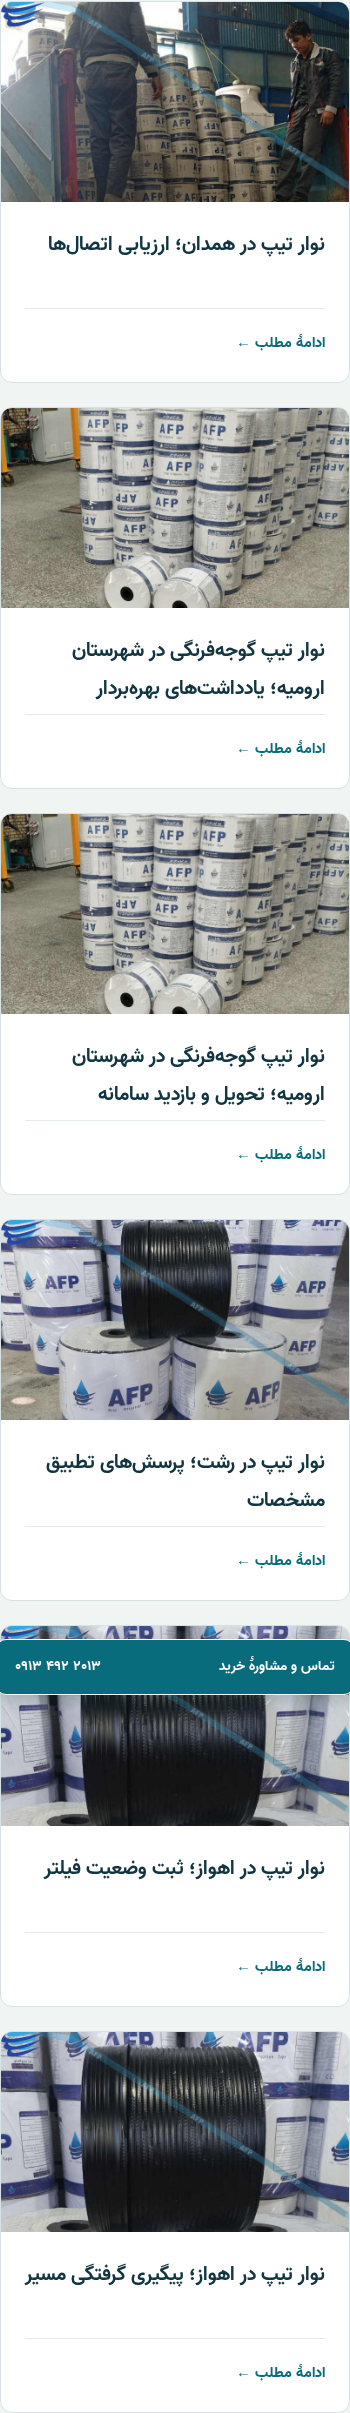
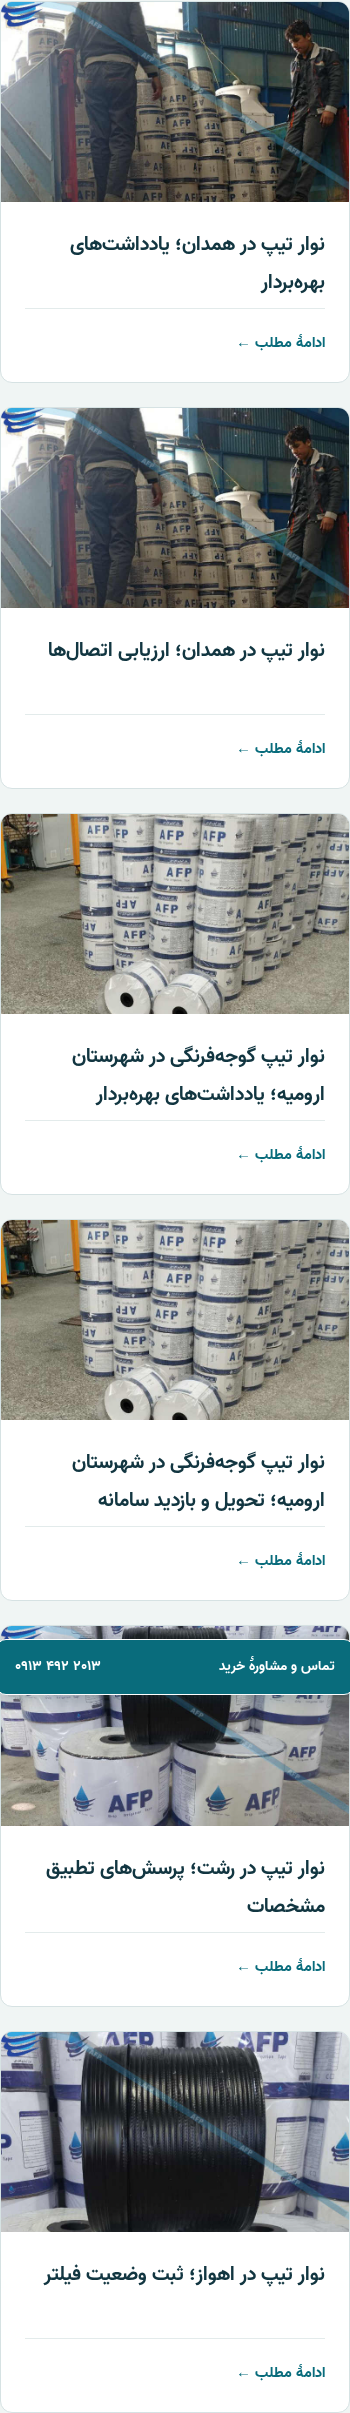
Checkpoint verified Blogsky native outcome [skip ci]

diff --git a/artifacts/blogsky-backlink-queue/home-card-images/before.html b/artifacts/blogsky-backlink-queue/home-card-images/before.html
@@ -27,12 +27,12 @@ body:has(#afp-home) .sidebar>.menu:has(>.head>a[href="/posts"]) a:focus-visible{
 @media(max-width:760px){body:has(#afp-home) .sidebar>.menu:has(>.head>a[href="/posts"])>ul{width:calc(100% - 40px)}#afp-home #guides{padding-top:40px}}
 @media(max-width:650px){body:has(#afp-home) .sidebar>.menu:has(>.head>a[href="/posts"])>ul{grid-template-columns:minmax(0,1fr)}#afp-home .afp-journal-heading{align-items:flex-start;flex-direction:column;gap:12px}}
 /*]]>*//* AFP_LIVE_CARD_IMAGES_START */
+body:has(#afp-home) .sidebar>.menu:has(>.head>a[href="/posts"])>ul>li>a[href="/1405/08/05/post-17/navar-tip-hamedan-evaluation-connections"]::before{background-image:url("https://navar-abyari.ir/wp-content/uploads/%D9%86%D9%88%D8%A7%D8%B1-%D8%A2%D8%A8%DB%8C%D8%A7%D8%B1%DB%8C-%D9%87%D9%85%D8%AF%D8%A7%D9%86-1.jpg");background-size:cover;background-position:center}
 body:has(#afp-home) .sidebar>.menu:has(>.head>a[href="/posts"])>ul>li>a[href="/1405/08/05/post-16/tape-tomato-urmia-operator-notes"]::before{background-image:url("https://navar-abyari.ir/wp-content/uploads/%D9%86%D9%88%D8%A7%D8%B1-%D8%AA%DB%8C%D9%BE-%D8%B4%D9%87%D8%B1%DA%A9%D8%B1%D8%AF-%D8%AE%D8%B1%DB%8C%D8%AF.jpg");background-size:cover;background-position:center}
 body:has(#afp-home) .sidebar>.menu:has(>.head>a[href="/posts"])>ul>li>a[href="/1405/08/05/post-15/nabar-tip-gooje-urmiye-bazdid-system"]::before{background-image:url("https://navar-abyari.ir/wp-content/uploads/%D9%86%D9%88%D8%A7%D8%B1-%D8%AA%DB%8C%D9%BE-%D8%B4%D9%87%D8%B1%DA%A9%D8%B1%D8%AF-%D8%AE%D8%B1%DB%8C%D8%AF.jpg");background-size:cover;background-position:center}
 body:has(#afp-home) .sidebar>.menu:has(>.head>a[href="/posts"])>ul>li>a[href="/1405/08/05/post-14/navar-tip-rasht-tatbigh-moshakhasat"]::before{background-image:url("https://navar-abyari.ir/wp-content/uploads/%D9%86%D9%88%D8%A7%D8%B1-%D8%A2%D8%A8%DB%8C%D8%A7%D8%B1%DB%8C.jpg");background-size:cover;background-position:center}
 body:has(#afp-home) .sidebar>.menu:has(>.head>a[href="/posts"])>ul>li>a[href="/1405/08/05/post-13/navar-tip-4648e48de8ba739b2058"]::before{background-image:url("https://navar-abyari.ir/wp-content/uploads/%D9%86%D9%88%D8%A7%D8%B1-%D8%AA%DB%8C%D9%BE-%D8%B2%D9%86%D8%AC%D8%A7%D9%86.jpg");background-size:cover;background-position:center}
 body:has(#afp-home) .sidebar>.menu:has(>.head>a[href="/posts"])>ul>li>a[href="/1405/08/01/post-12/nivar-tip-ahvaz-getnegi-gereftegi-marz"]::before{background-image:url("https://navar-abyari.ir/wp-content/uploads/%D9%86%D9%88%D8%A7%D8%B1-%D8%AA%DB%8C%D9%BE-%D8%B2%D9%86%D8%AC%D8%A7%D9%86.jpg");background-size:cover;background-position:center}
-body:has(#afp-home) .sidebar>.menu:has(>.head>a[href="/posts"])>ul>li>a[href="/1405/08/01/post-11/navar-tip-dar-shiraz-arzabi-ettelatha"]::before{background-image:url("https://navar-abyari.ir/wp-content/uploads/%D8%A8%D9%87%D8%AA%D8%B1%DB%8C%D9%86-%D9%86%D9%88%D8%A7%D8%B1-%D8%AA%DB%8C%D9%BE-%D8%B4%DB%8C%D8%B1%D8%A7%D8%B2.jpg");background-size:cover;background-position:center}
 /* AFP_LIVE_CARD_IMAGES_END */</style><div id="afp-home" lang="fa" dir="rtl">
 <div class="top"><div class="wrap"><span class="top-note">راهنمای کاربردی AFP · آبیاری و انتقال آب</span><a href="tel:+989134922013">مشاورهٔ انتخاب تجهیزات: ۰۹۱۳۴۹۲۲۰۱۳</a></div></div>
 <header><div class="wrap brandbar"><a class="brand" href="/"><img src="https://navar-abyari.ir/wp-content/uploads/نوار-تیپ-afp-drip-tape.png" alt="لوگوی AFP" width="52" height="52" /><span><strong>آبگستر فرا پارسیان</strong><small>انتخاب آگاهانه، آبیاری بهتر</small></span></a><a class="btn alt" href="https://navar-abyari.ir/shop/">فروشگاه AFP ←</a></div><div class="navline"><nav class="wrap" aria-label="فهرست اصلی"><a href="#products">تجهیزات آبیاری</a><a href="#guides">راهنماها و یادداشتها</a><a href="#faq">پرسشهای متداول</a><a href="#contact">تماس و مشاوره</a></nav></div></header>

diff --git a/artifacts/blogsky-backlink-queue/home-card-images/candidate.html b/artifacts/blogsky-backlink-queue/home-card-images/candidate.html
@@ -27,12 +27,12 @@ body:has(#afp-home) .sidebar>.menu:has(>.head>a[href="/posts"]) a:focus-visible{
 @media(max-width:760px){body:has(#afp-home) .sidebar>.menu:has(>.head>a[href="/posts"])>ul{width:calc(100% - 40px)}#afp-home #guides{padding-top:40px}}
 @media(max-width:650px){body:has(#afp-home) .sidebar>.menu:has(>.head>a[href="/posts"])>ul{grid-template-columns:minmax(0,1fr)}#afp-home .afp-journal-heading{align-items:flex-start;flex-direction:column;gap:12px}}
 /*]]>*//* AFP_LIVE_CARD_IMAGES_START */
+body:has(#afp-home) .sidebar>.menu:has(>.head>a[href="/posts"])>ul>li>a[href="/1405/08/05/post-18/navar-tip-hamadan-yaddasht-hbarebardar"]::before{background-image:url("https://navar-abyari.ir/wp-content/uploads/%D9%86%D9%88%D8%A7%D8%B1-%D8%A2%D8%A8%DB%8C%D8%A7%D8%B1%DB%8C-%D9%87%D9%85%D8%AF%D8%A7%D9%86-1.jpg");background-size:cover;background-position:center}
 body:has(#afp-home) .sidebar>.menu:has(>.head>a[href="/posts"])>ul>li>a[href="/1405/08/05/post-17/navar-tip-hamedan-evaluation-connections"]::before{background-image:url("https://navar-abyari.ir/wp-content/uploads/%D9%86%D9%88%D8%A7%D8%B1-%D8%A2%D8%A8%DB%8C%D8%A7%D8%B1%DB%8C-%D9%87%D9%85%D8%AF%D8%A7%D9%86-1.jpg");background-size:cover;background-position:center}
 body:has(#afp-home) .sidebar>.menu:has(>.head>a[href="/posts"])>ul>li>a[href="/1405/08/05/post-16/tape-tomato-urmia-operator-notes"]::before{background-image:url("https://navar-abyari.ir/wp-content/uploads/%D9%86%D9%88%D8%A7%D8%B1-%D8%AA%DB%8C%D9%BE-%D8%B4%D9%87%D8%B1%DA%A9%D8%B1%D8%AF-%D8%AE%D8%B1%DB%8C%D8%AF.jpg");background-size:cover;background-position:center}
 body:has(#afp-home) .sidebar>.menu:has(>.head>a[href="/posts"])>ul>li>a[href="/1405/08/05/post-15/nabar-tip-gooje-urmiye-bazdid-system"]::before{background-image:url("https://navar-abyari.ir/wp-content/uploads/%D9%86%D9%88%D8%A7%D8%B1-%D8%AA%DB%8C%D9%BE-%D8%B4%D9%87%D8%B1%DA%A9%D8%B1%D8%AF-%D8%AE%D8%B1%DB%8C%D8%AF.jpg");background-size:cover;background-position:center}
 body:has(#afp-home) .sidebar>.menu:has(>.head>a[href="/posts"])>ul>li>a[href="/1405/08/05/post-14/navar-tip-rasht-tatbigh-moshakhasat"]::before{background-image:url("https://navar-abyari.ir/wp-content/uploads/%D9%86%D9%88%D8%A7%D8%B1-%D8%A2%D8%A8%DB%8C%D8%A7%D8%B1%DB%8C.jpg");background-size:cover;background-position:center}
 body:has(#afp-home) .sidebar>.menu:has(>.head>a[href="/posts"])>ul>li>a[href="/1405/08/05/post-13/navar-tip-4648e48de8ba739b2058"]::before{background-image:url("https://navar-abyari.ir/wp-content/uploads/%D9%86%D9%88%D8%A7%D8%B1-%D8%AA%DB%8C%D9%BE-%D8%B2%D9%86%D8%AC%D8%A7%D9%86.jpg");background-size:cover;background-position:center}
-body:has(#afp-home) .sidebar>.menu:has(>.head>a[href="/posts"])>ul>li>a[href="/1405/08/01/post-12/nivar-tip-ahvaz-getnegi-gereftegi-marz"]::before{background-image:url("https://navar-abyari.ir/wp-content/uploads/%D9%86%D9%88%D8%A7%D8%B1-%D8%AA%DB%8C%D9%BE-%D8%B2%D9%86%D8%AC%D8%A7%D9%86.jpg");background-size:cover;background-position:center}
 /* AFP_LIVE_CARD_IMAGES_END */</style><div id="afp-home" lang="fa" dir="rtl">
 <div class="top"><div class="wrap"><span class="top-note">راهنمای کاربردی AFP · آبیاری و انتقال آب</span><a href="tel:+989134922013">مشاورهٔ انتخاب تجهیزات: ۰۹۱۳۴۹۲۲۰۱۳</a></div></div>
 <header><div class="wrap brandbar"><a class="brand" href="/"><img src="https://navar-abyari.ir/wp-content/uploads/نوار-تیپ-afp-drip-tape.png" alt="لوگوی AFP" width="52" height="52" /><span><strong>آبگستر فرا پارسیان</strong><small>انتخاب آگاهانه، آبیاری بهتر</small></span></a><a class="btn alt" href="https://navar-abyari.ir/shop/">فروشگاه AFP ←</a></div><div class="navline"><nav class="wrap" aria-label="فهرست اصلی"><a href="#products">تجهیزات آبیاری</a><a href="#guides">راهنماها و یادداشتها</a><a href="#faq">پرسشهای متداول</a><a href="#contact">تماس و مشاوره</a></nav></div></header>

diff --git a/templates/blogsky/afp-home.html b/templates/blogsky/afp-home.html
@@ -27,12 +27,12 @@ body:has(#afp-home) .sidebar>.menu:has(>.head>a[href="/posts"]) a:focus-visible{
 @media(max-width:760px){body:has(#afp-home) .sidebar>.menu:has(>.head>a[href="/posts"])>ul{width:calc(100% - 40px)}#afp-home #guides{padding-top:40px}}
 @media(max-width:650px){body:has(#afp-home) .sidebar>.menu:has(>.head>a[href="/posts"])>ul{grid-template-columns:minmax(0,1fr)}#afp-home .afp-journal-heading{align-items:flex-start;flex-direction:column;gap:12px}}
 /* AFP_LIVE_CARD_IMAGES_START */
+body:has(#afp-home) .sidebar>.menu:has(>.head>a[href="/posts"])>ul>li>a[href="/1405/08/05/post-18/navar-tip-hamadan-yaddasht-hbarebardar"]::before{background-image:url("https://navar-abyari.ir/wp-content/uploads/%D9%86%D9%88%D8%A7%D8%B1-%D8%A2%D8%A8%DB%8C%D8%A7%D8%B1%DB%8C-%D9%87%D9%85%D8%AF%D8%A7%D9%86-1.jpg");background-size:cover;background-position:center}
 body:has(#afp-home) .sidebar>.menu:has(>.head>a[href="/posts"])>ul>li>a[href="/1405/08/05/post-17/navar-tip-hamedan-evaluation-connections"]::before{background-image:url("https://navar-abyari.ir/wp-content/uploads/%D9%86%D9%88%D8%A7%D8%B1-%D8%A2%D8%A8%DB%8C%D8%A7%D8%B1%DB%8C-%D9%87%D9%85%D8%AF%D8%A7%D9%86-1.jpg");background-size:cover;background-position:center}
 body:has(#afp-home) .sidebar>.menu:has(>.head>a[href="/posts"])>ul>li>a[href="/1405/08/05/post-16/tape-tomato-urmia-operator-notes"]::before{background-image:url("https://navar-abyari.ir/wp-content/uploads/%D9%86%D9%88%D8%A7%D8%B1-%D8%AA%DB%8C%D9%BE-%D8%B4%D9%87%D8%B1%DA%A9%D8%B1%D8%AF-%D8%AE%D8%B1%DB%8C%D8%AF.jpg");background-size:cover;background-position:center}
 body:has(#afp-home) .sidebar>.menu:has(>.head>a[href="/posts"])>ul>li>a[href="/1405/08/05/post-15/nabar-tip-gooje-urmiye-bazdid-system"]::before{background-image:url("https://navar-abyari.ir/wp-content/uploads/%D9%86%D9%88%D8%A7%D8%B1-%D8%AA%DB%8C%D9%BE-%D8%B4%D9%87%D8%B1%DA%A9%D8%B1%D8%AF-%D8%AE%D8%B1%DB%8C%D8%AF.jpg");background-size:cover;background-position:center}
 body:has(#afp-home) .sidebar>.menu:has(>.head>a[href="/posts"])>ul>li>a[href="/1405/08/05/post-14/navar-tip-rasht-tatbigh-moshakhasat"]::before{background-image:url("https://navar-abyari.ir/wp-content/uploads/%D9%86%D9%88%D8%A7%D8%B1-%D8%A2%D8%A8%DB%8C%D8%A7%D8%B1%DB%8C.jpg");background-size:cover;background-position:center}
 body:has(#afp-home) .sidebar>.menu:has(>.head>a[href="/posts"])>ul>li>a[href="/1405/08/05/post-13/navar-tip-4648e48de8ba739b2058"]::before{background-image:url("https://navar-abyari.ir/wp-content/uploads/%D9%86%D9%88%D8%A7%D8%B1-%D8%AA%DB%8C%D9%BE-%D8%B2%D9%86%D8%AC%D8%A7%D9%86.jpg");background-size:cover;background-position:center}
-body:has(#afp-home) .sidebar>.menu:has(>.head>a[href="/posts"])>ul>li>a[href="/1405/08/01/post-12/nivar-tip-ahvaz-getnegi-gereftegi-marz"]::before{background-image:url("https://navar-abyari.ir/wp-content/uploads/%D9%86%D9%88%D8%A7%D8%B1-%D8%AA%DB%8C%D9%BE-%D8%B2%D9%86%D8%AC%D8%A7%D9%86.jpg");background-size:cover;background-position:center}
 /* AFP_LIVE_CARD_IMAGES_END */</style><div id="afp-home" lang="fa" dir="rtl">
 <div class="top"><div class="wrap"><span class="top-note">راهنمای کاربردی AFP · آبیاری و انتقال آب</span><a href="tel:+989134922013">مشاورهٔ انتخاب تجهیزات: ۰۹۱۳۴۹۲۲۰۱۳</a></div></div>
 <header><div class="wrap brandbar"><a class="brand" href="/"><img src="https://navar-abyari.ir/wp-content/uploads/نوار-تیپ-afp-drip-tape.png" alt="لوگوی AFP" width="52" height="52"><span><strong>آبگستر فرا پارسیان</strong><small>انتخاب آگاهانه، آبیاری بهتر</small></span></a><a class="btn alt" href="https://navar-abyari.ir/shop/">فروشگاه AFP ←</a></div><div class="navline"><nav class="wrap" aria-label="فهرست اصلی"><a href="#products">تجهیزات آبیاری</a><a href="#guides">راهنماها و یادداشتها</a><a href="#faq">پرسشهای متداول</a><a href="#contact">تماس و مشاوره</a></nav></div></header>
